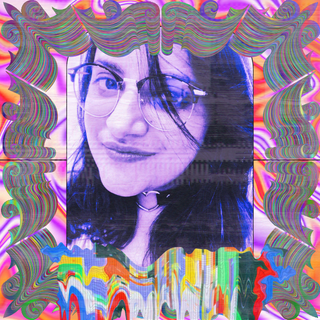
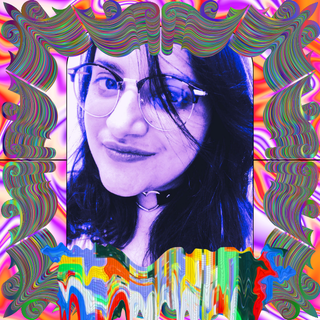
portfolio maj ajout premier js

diff --git a/Exercice-CV-Portefolio/index.html b/Exercice-CV-Portefolio/index.html
@@ -9,10 +9,14 @@
   <body>
     <header>
       <nav>
-        <div class="item1">
+        <button id="switch"><b>SWITCH</b></button>
+        <div class="ppnone">
+          <img src="pp-none.png" alt="Encadré coloré stylé" />
+        </div>
+        <div class="pp">
           <img src="photoProfil.png" alt="Photo de profil d'Oph Périanin" />
         </div>
-        <div class="item2">
+        <div class="logonav">
           <p>
             <a href="#ancre1"
               ><img
@@ -22,7 +26,7 @@
             /></a>
           </p>
         </div>
-        <div class="item3">
+        <div class="logonav">
           <p>
             <a href="#ancre2"
               ><img
@@ -32,7 +36,7 @@
             /></a>
           </p>
         </div>
-        <div class="item4">
+        <div class="logonav">
           <p>
             <a href="#ancre3"
               ><img
@@ -47,8 +51,8 @@
       <p>Développeuse Front-End</p>
     </header>
     <main>
-      <section class="Skills">
-        <h2 id="ancre1">Compétences techniques</h2>
+      <section class="Skills" id="ancre1">
+        <h2>Compétences techniques</h2>
         <ul>
           <li>Notions de HTML5, CSS3, JavaScript</li>
           <li>
@@ -64,8 +68,8 @@
           <li>Animer, coordonner une équipe, travailler en équipe</li>
         </ul>
       </section>
-      <section class="Works">
-        <h2 id="ancre2">Expériences professionnelles</h2>
+      <section class="Works" id="ancre2">
+        <h2>Expériences professionnelles</h2>
         <h3>
           Animatrice numérique dans l'insertion professionnelles | oct 2023 -
           nov 2026 | ATDEC | Nantes
@@ -108,8 +112,8 @@
           <li>Assistance prise de son / ingénierie son</li>
         </ul>
       </section>
-      <footer class="Contact">
-        <h2 id="ancre3">Contact</h2>
+      <footer class="Contact" id="ancre3">
+        <h2>Contact</h2>
         <ul>
           <li>Tel : 07 86 40 56 01</li>
           <li>Mail: oph.perianin@gmail.com</li>

diff --git a/Exercice-CV-Portefolio/style.css b/Exercice-CV-Portefolio/style.css
@@ -9,27 +9,27 @@ html {
 
 /* Colors token */
 :root {
-  --color-primary:#ffcfea;
+  --color-primary: #ffcfea;
   --color-text: #feffbe;
   --head-bg-color: #bfb9ff;
   --color-bg-color: #d1b55f;
-  --bluepastel-color: #afe9ff;
-  --greenpastel-color: #cbffe6;
   --skills-bg-color: #50d8ec;
-  --purpledark-bg-color: #dd6dfb;
   --nav-bg-color: #05ffa1;
+  /* --bluepastel-color: #afe9ff; */
+  /* --greenpastel-color: #cbffe6;
+  --purpledark-bg-color: #dd6dfb; */
 }
 @media (prefers-color-scheme: dark) {
   :root {
-    --color-primary:#ffcfea;
+    --color-primary: #ffcfea;
     --color-text: #feffbe;
     --head-bg-color: #a59fe2;
     --color-bg-color: #1a160b;
     --skills-bg-color: #449aa8;
     --nav-bg-color: #00e18b;
-    --
   }
 }
+/* Responsives Screen */
 
 /* Global style resets */
 body {
@@ -55,11 +55,26 @@ img {
   text-decoration: none;
 }
 
+.pp {
+  display: none;
+}
 img {
-  margin: 2em;
-  align-items: right;
+  margin: 1em;
   width: 40%;
 }
+#switch {
+  background-color: var(--head-bg-color);
+  color: var(--color-primary);
+  font-family: Arial, Helvetica, sans-serif;
+  border-radius: 5px;
+  padding: 0.5rem;
+  font-size: large;
+}
+#switch:hover,
+#switch:focus {
+  background-color: var(--color-bg-color);
+}
+
 /* Main content styles*/
 
 .Skills,
@@ -75,7 +90,7 @@ img {
   font-size: 1em;
 }
 .Works {
-  background-color: var(--purpledark-bg-color);
+  background-color: var(--head-bg-color);
   color: var(--color-text);
 }
 .Contact {
@@ -83,14 +98,13 @@ img {
   background-color: var(--nav-bg-color);
 }
 /* Pied de page */
-footer> .Contact { 
+footer > .Contact {
   display: flex;
   flex-direction: column;
   flex-wrap: wrap;
   justify-content: space-between;
- }
- footer img {
-width: 15%;
-flex-direction: column;
 }
-
+footer img {
+  width: 15%;
+  flex-direction: column;
+}

diff --git a/Exercice-CV-Portefolio/script.js b/Exercice-CV-Portefolio/script.js
@@ -1,0 +1,21 @@
+//Faire disparaitre ppnone remplacer pp au clique du bouton
+//Récupérer l'img ppnone
+const ppnone = document.querySelector(".ppnone");
+//Récupérer l'img pp
+const pp = document.querySelector(".pp");
+//Récupérer button switch
+const button = document.querySelector("#switch");
+// On écoute le clique du bouton
+button.addEventListener("click", () => {
+  ppnone.style.display = "none";
+  pp.style.display = "block";
+});
+//Ajout du style css display none sur ppnone
+
+// const logonav = document.querySelectorAll(".logonav");
+// logonav.forEach((logo) => {
+//   (logonav.addEventListener("mouseover"),
+//     () => {
+//       text.innerText = "Hello";
+//     });
+// });
